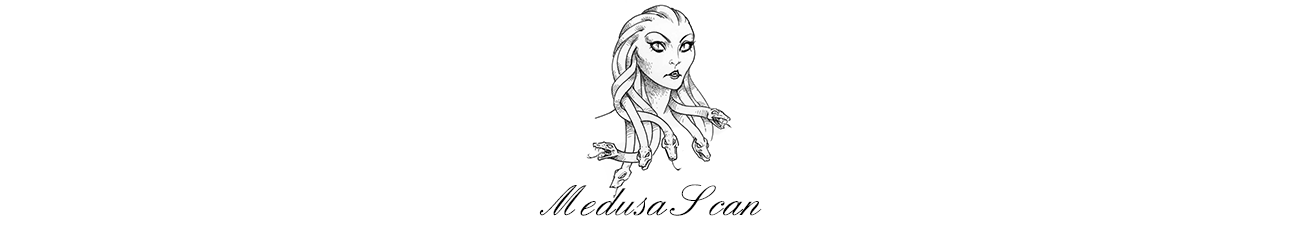
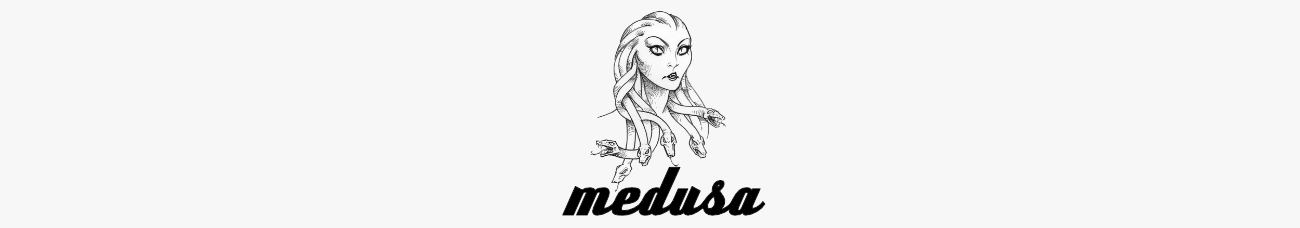
v1.0.47:palm_tree:

Changed region(s): [[0.4, 0.0307, 0.5846, 0.9518]]

diff --git a/Web/TrojanOrVirus/TrojanInterface.py b/Web/TrojanOrVirus/TrojanInterface.py
@@ -320,7 +320,7 @@ def TrojanDataQuery(request):#个人用户免杀数据查询
             Uid = UserInfo().QueryUidWithToken(Token)  # 如果登录成功后就来查询UID
             if Uid != None:  # 查到了UID
                 UserOperationLogRecord(request, request_api="trojan_data_query", uid=Uid)
-                AntiAntiVirusDataResult = TrojanData().Query(uid=Uid,number_of_pages=NumberOfPages)  # 获取当前用户的个数
+                AntiAntiVirusDataResult = TrojanData().Query(uid=Uid,number_of_pages=int(NumberOfPages))  # 获取当前用户的个数
                 return JsonResponse({'message': AntiAntiVirusDataResult, 'code': 200, })
             else:
                 return JsonResponse({'message': "小宝贝这是非法查询哦(๑•̀ㅂ•́)و✧", 'code': 403, })

diff --git a/docs/Documentation/API/TrojanOrVirus.md b/docs/Documentation/API/TrojanOrVirus.md
@@ -67,7 +67,37 @@
 - 200：返回用户当前信息
 
   ```json
-  XX
+  {
+  	"message": [{
+  		"trojan_id": 1,
+  		"shellcode_type": "1",
+  		"trojan_original_file_name": "ggkOx1629870349.c",
+  		"trojan_generate_file_name": "ggkOx1629870349.exe",
+  		"compilation_status": "0",
+  		"creation_time": "1629870357",
+  		"shellcode_architecture": "x64",
+  		"plugin": "test.py"
+  	}, {
+  		"trojan_id": 4,
+  		"shellcode_type": "1",
+  		"trojan_original_file_name": "IJmXK1629877743.c",
+  		"trojan_generate_file_name": "IJmXK1629877743.dll",
+  		"compilation_status": "-1",
+  		"creation_time": "1629877744",
+  		"shellcode_architecture": "x64",
+  		"plugin": "test-dll.py"
+  	}, {
+  		"trojan_id": 5,
+  		"shellcode_type": "1",
+  		"trojan_original_file_name": "ObOfz1630312479.c",
+  		"trojan_generate_file_name": "ObOfz1630312479.dll",
+  		"compilation_status": "1",
+  		"creation_time": "1630312479",
+  		"shellcode_architecture": "x64",
+  		"plugin": "test-dll.py"
+  	}],
+  	"code": 200
+  }
   ```
 
   > 返回参数解释
@@ -78,6 +108,8 @@
   - `virus_generate_file_name`生成编译好的文件名
   - `compilation_status`文件编译状态，0为未完成，1完成，-1出错
   - `creation_time`创建时间
+  - `shellcode_architecture`当前shellcode使用架构
+  - `plugin`生成的插件名称
 
 - 403：小宝贝这是非法查询哦(๑•̀ㅂ•́)و✧
 

diff --git a/docs/Documentation/UpDataLog.md b/docs/Documentation/UpDataLog.md
@@ -3014,5 +3014,9 @@ v1.0.45🌴
 v1.0.46🌴
 添加AES加解密类函数
 添加免杀框架API说明文档
+v1.0.47🌴
+修改查询免杀用户数据错误问题
+修改文档内容
+修改首页图片
 ```
 
